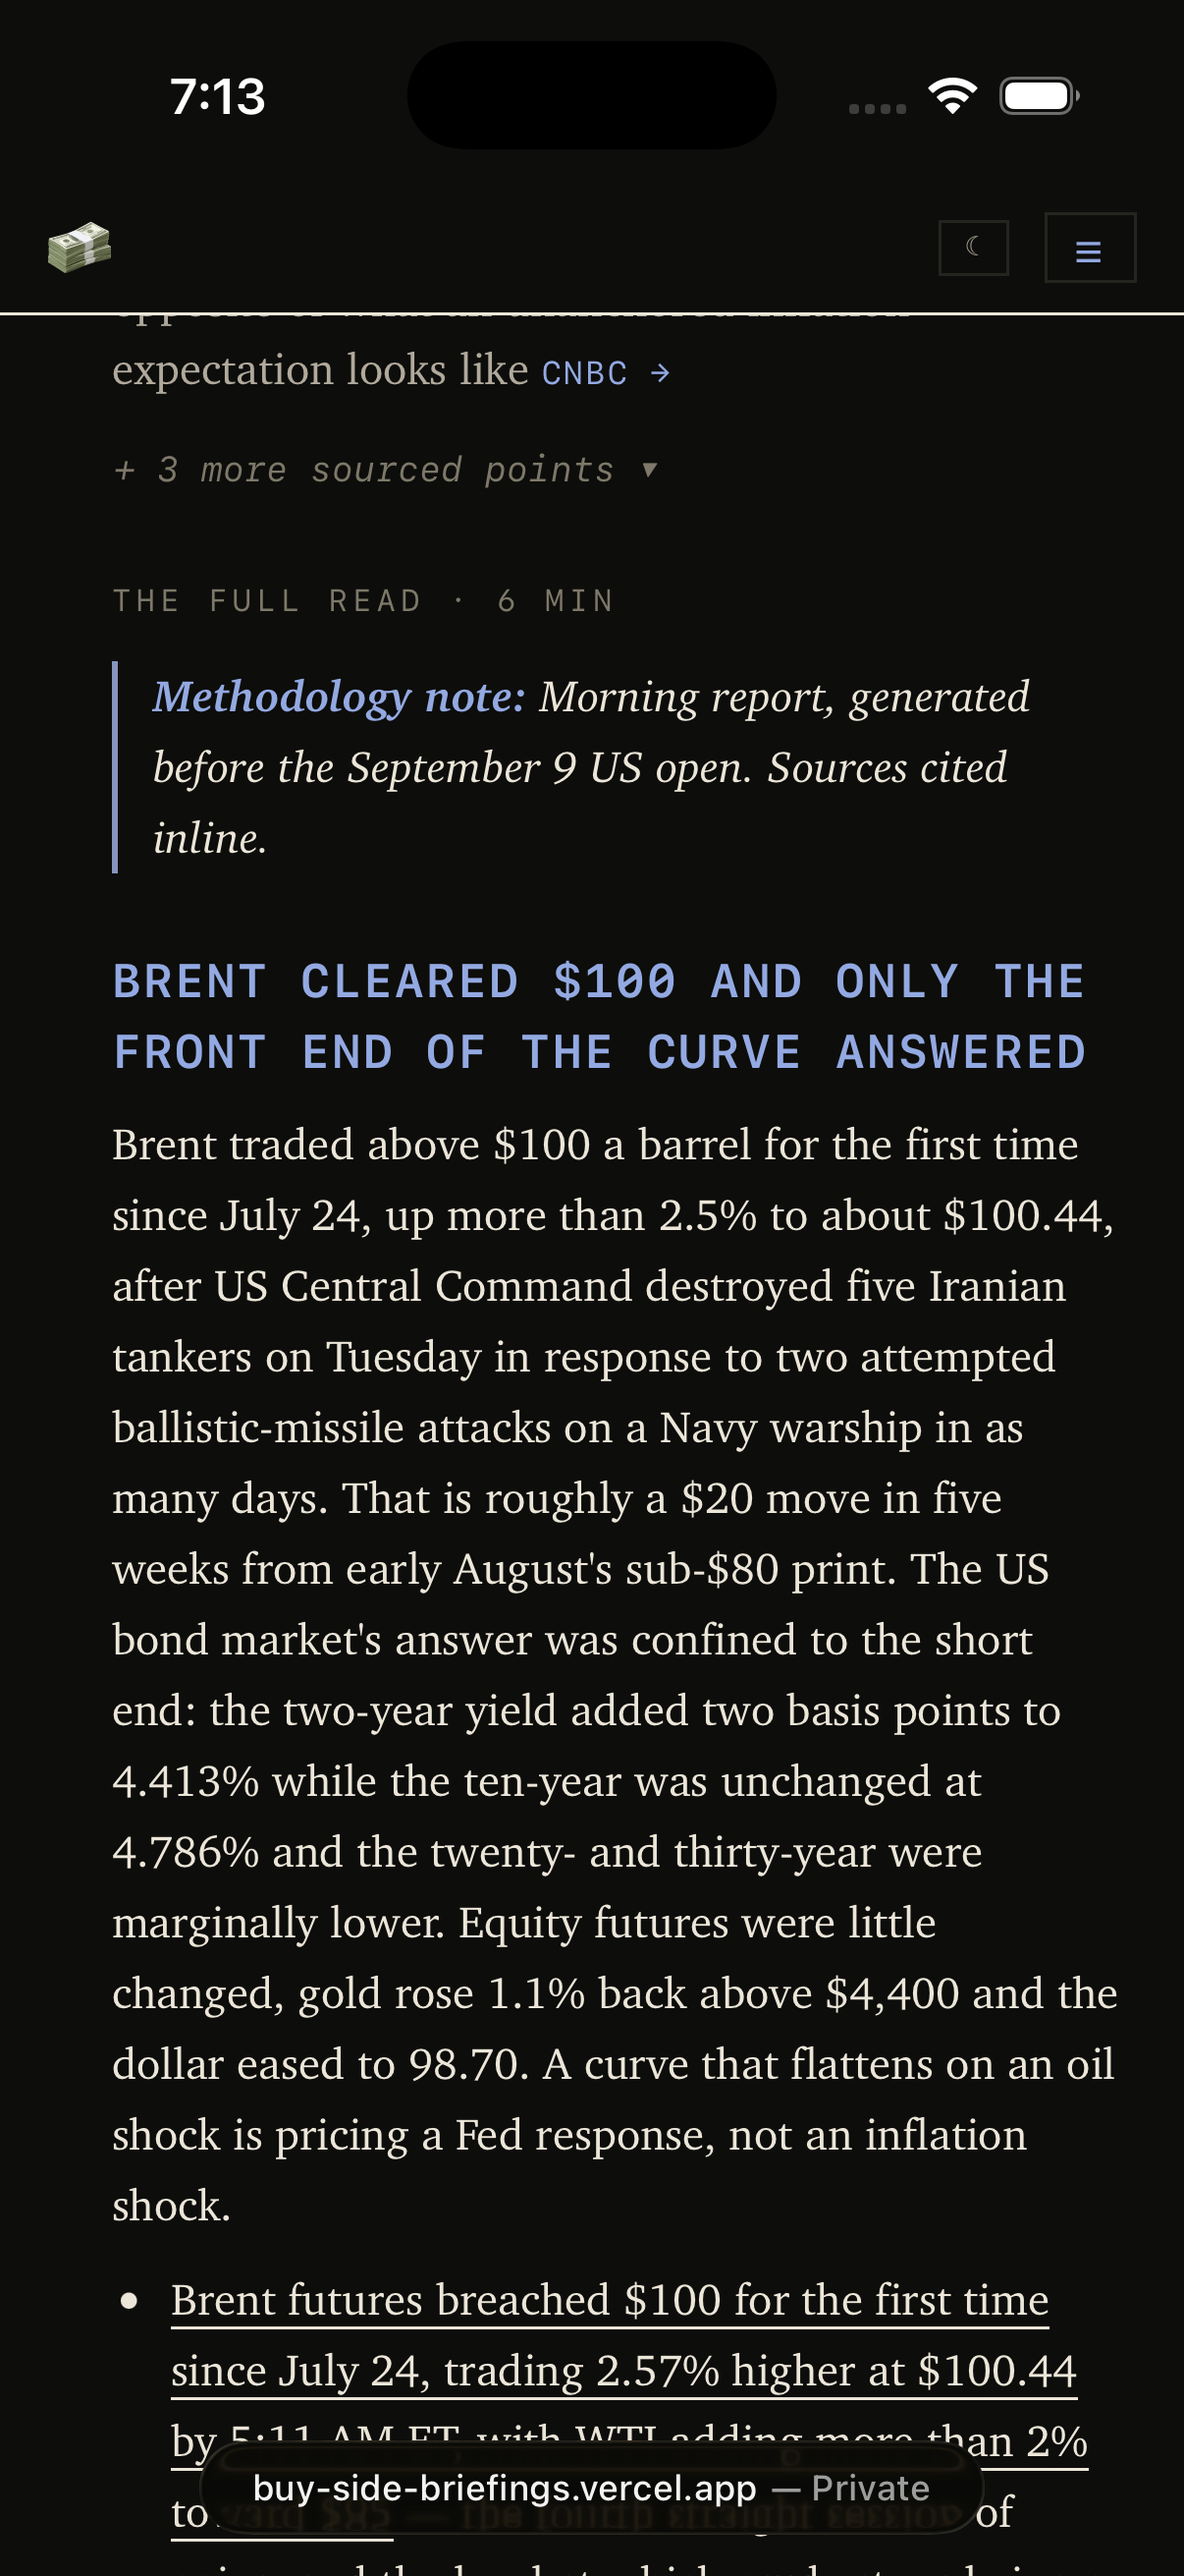
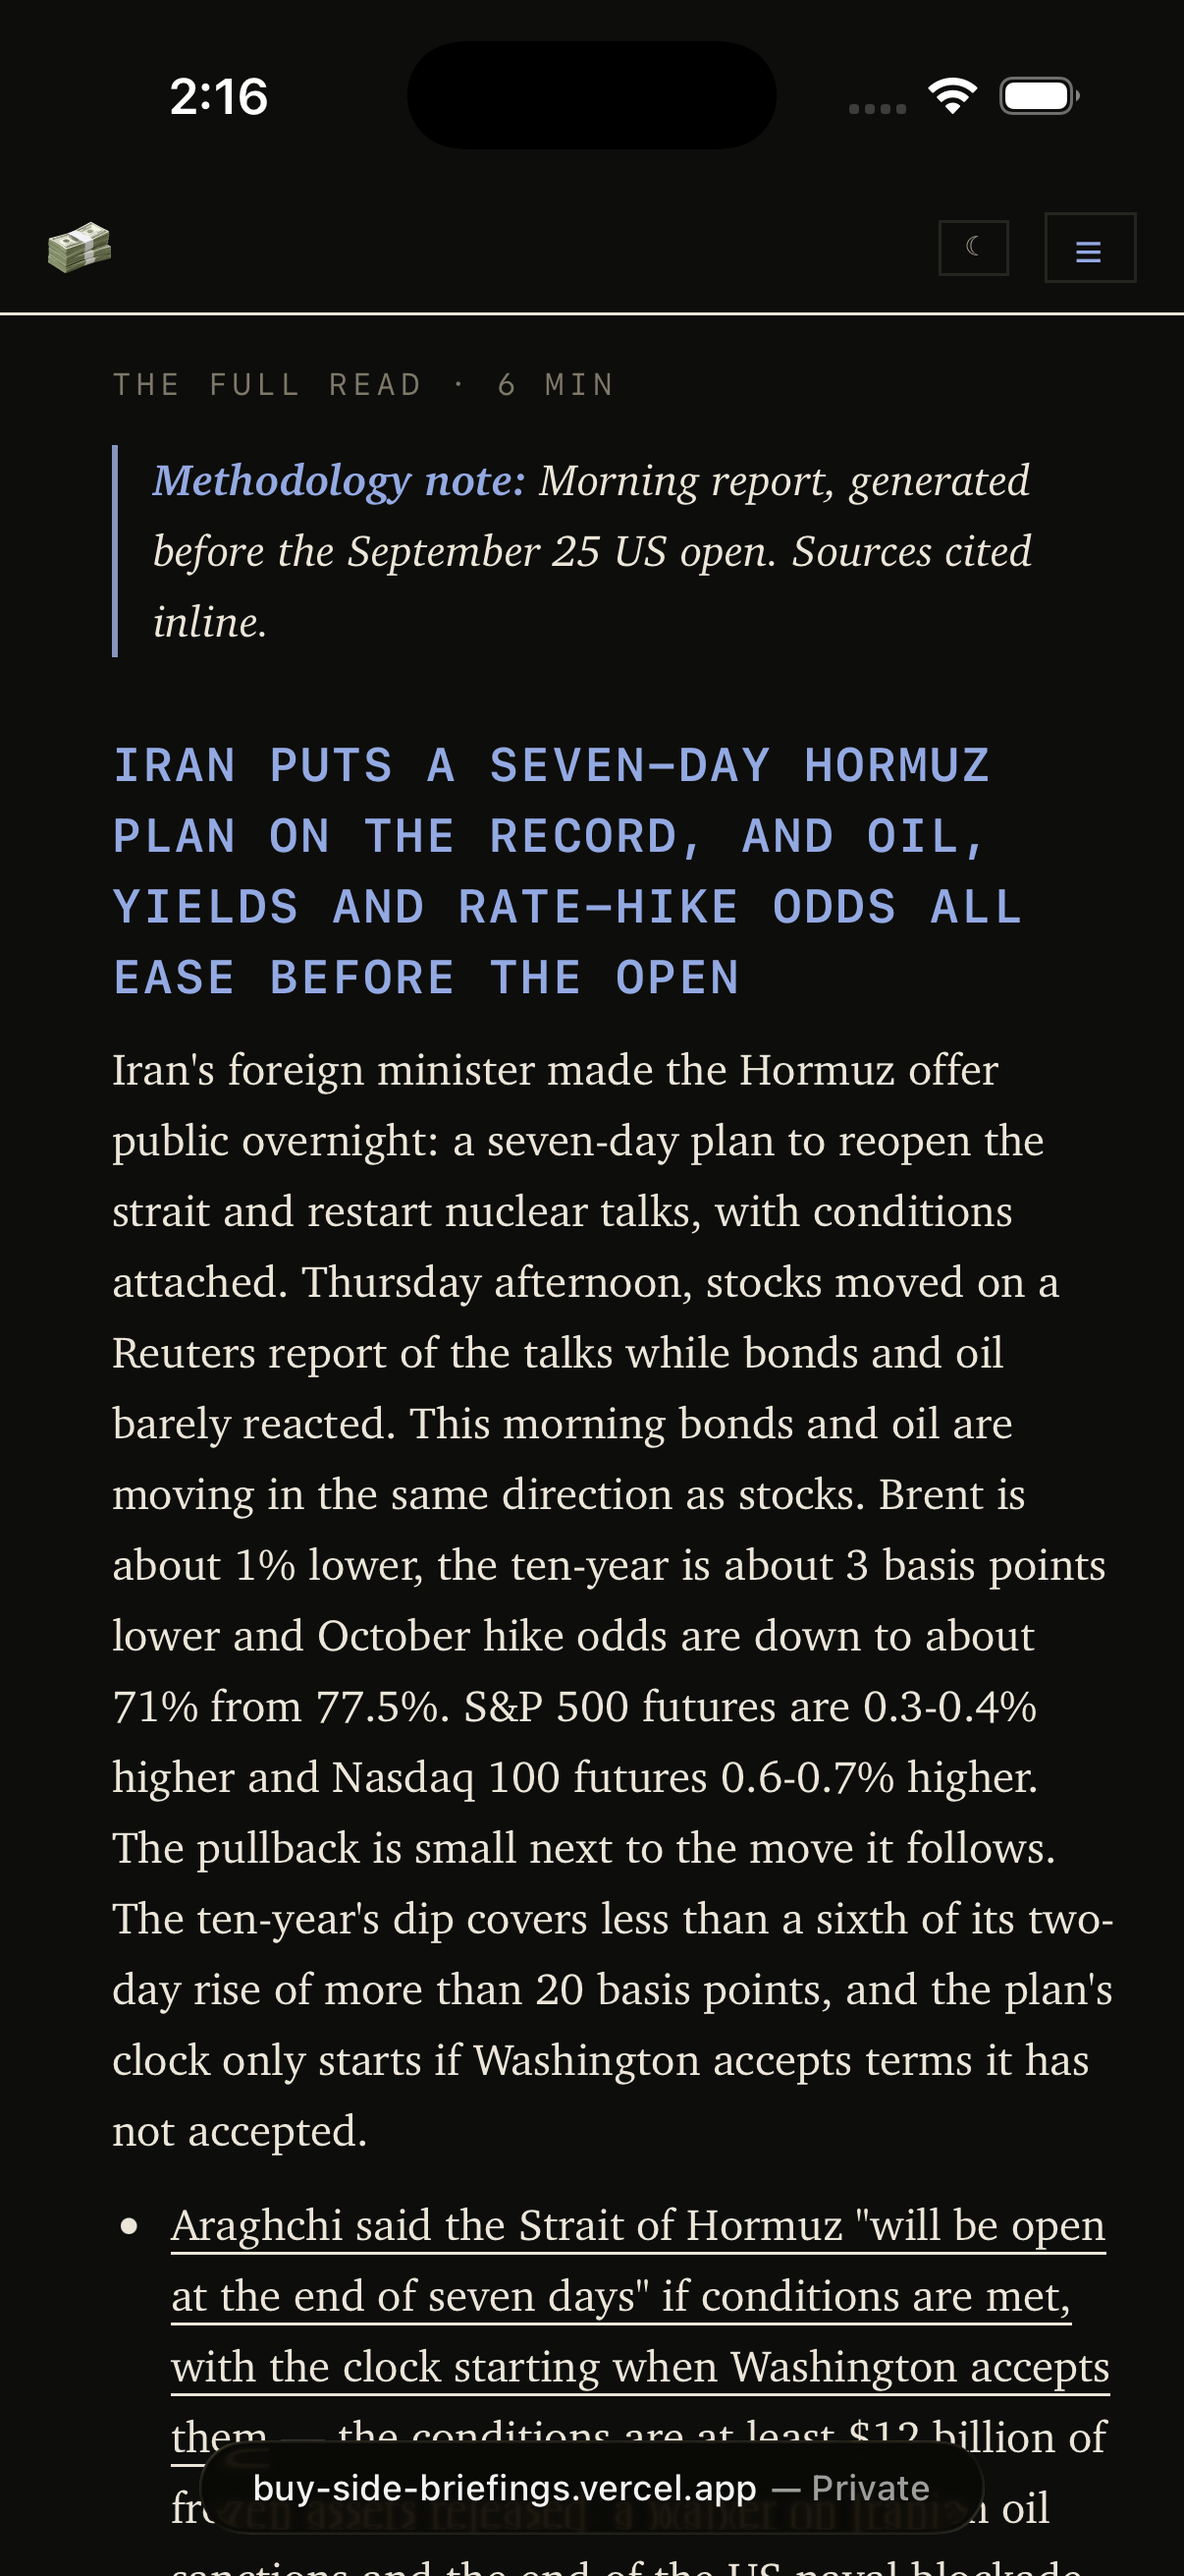
Update the Buy Side Briefings mobile shots to the September 25 report
The Today page and the two full-read shots are retaken on the newer
report, and the pre-open table is swapped for the What Changed Since Last
Report section. Alt text rewritten to match.

diff --git a/src/data/case-studies.ts b/src/data/case-studies.ts
@@ -1019,19 +1019,19 @@ export const caseStudies: Record<string, CaseStudy> = {
         items: [
           {
             src: "/projects/buy-side-mobile-today.png",
-            alt: "The Today page on a phone: the ticker strip under the nav, the date with an AM/PM toggle set to AM, the morning report's headline on US strikes on Iranian tankers pushing oil to a two-month high while only short rates move, its opening paragraph, a link to the six-minute read, and the charts panel starting below",
+            alt: "The Today page on a phone: the ticker strip under the nav, Friday, September 25 with an AM/PM toggle set to AM, the morning report's headline on Iran making its Hormuz offer public as oil, bond yields and rate-hike bets ease before the open, its opening paragraph, a link to the six-minute read, and the charts panel starting below",
           },
           {
             src: "/projects/buy-side-mobile-full-read.png",
-            alt: "The full read on a phone: a back link to all reports, the date and Morning label, the headline, the time the report was generated, then bulleted takeaways on Brent breaching $100, US Central Command destroying five Iranian tankers, the two-year Treasury yield rising two basis points, and the Treasury's doubled long-end buybacks",
+            alt: "The full read on a phone: a back link to Today, the date and Morning label, the headline, the time the report was generated, then bulleted takeaways on Iran's foreign minister saying Hormuz will be open in seven days if Washington accepts conditions, October hike odds falling to 71%, oil slipping about 1% after Thursday's gain, and the thirty-year Treasury yield",
           },
           {
             src: "/projects/buy-side-mobile-full-read-body.png",
-            alt: "Further down the full read on a phone: a CNBC source link, a collapsed row for three more sourced points, the Full Read label with a six-minute estimate, an italic methodology note, then the first section heading on Brent clearing $100 with its body paragraph and underlined sourced bullets below",
+            alt: "Further down the full read on a phone: the Full Read label with a six-minute estimate, an italic methodology note, then the first section heading on Iran putting a seven-day Hormuz plan on the record as oil, yields and rate-hike odds ease, with its body paragraph and underlined sourced bullets below",
           },
           {
-            src: "/projects/buy-side-mobile-pre-open-table.png",
-            alt: "The pre-open table on a phone for September 9, 2026: rows for Brent, WTI, the two-year, ten-year, and thirty-year Treasuries, S&P 500, Nasdaq 100, Dow and Russell 2000 futures, gold, the dollar index, the VIX, and Bitcoin, each with its level, change, and a short note, with the rows the report keys on highlighted in blue",
+            src: "/projects/buy-side-mobile-what-changed.png",
+            alt: "The What Changed Since Last Report section on a phone: a paragraph comparing last night's read with the overnight moves, then bulleted points with bold blue leads on the offer's terms being harder than reported, lower oil easing the rate path, the global bond relief, and a correction to Thursday's thirty-year close, with the Movers heading starting below",
           },
         ],
       },
